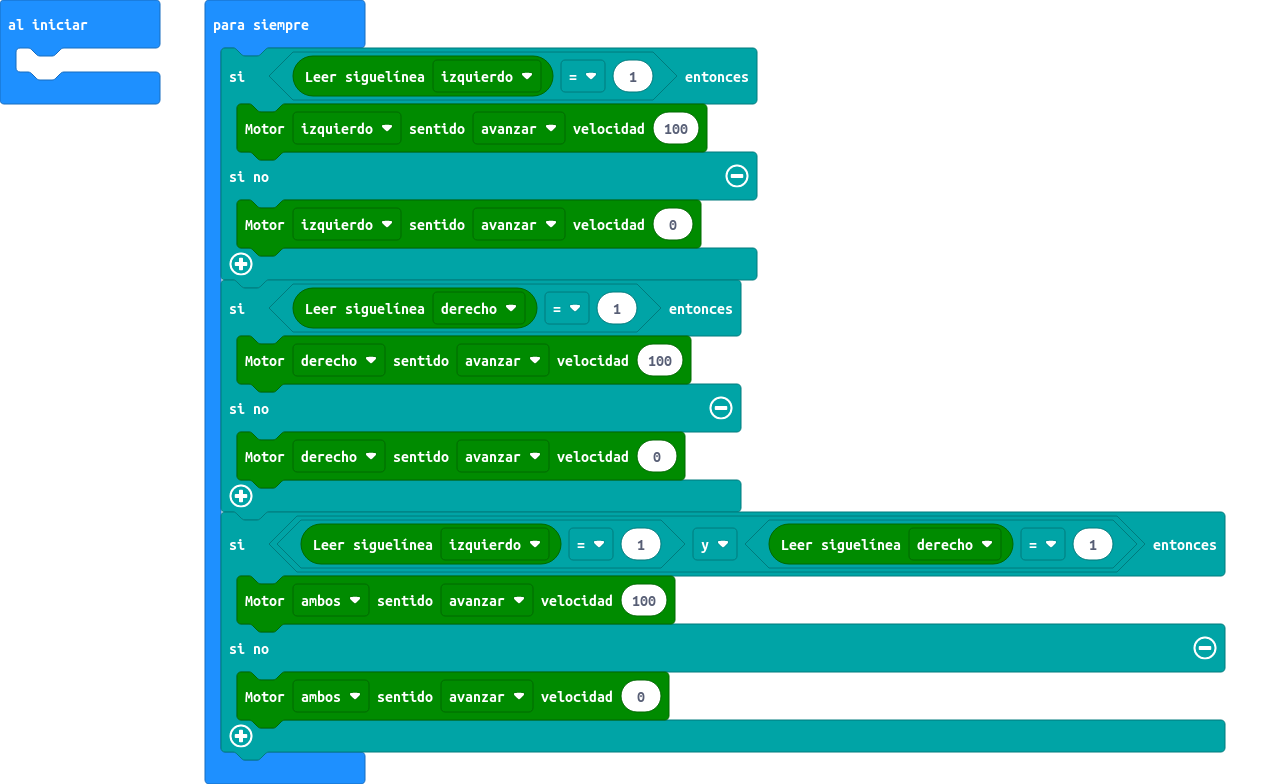
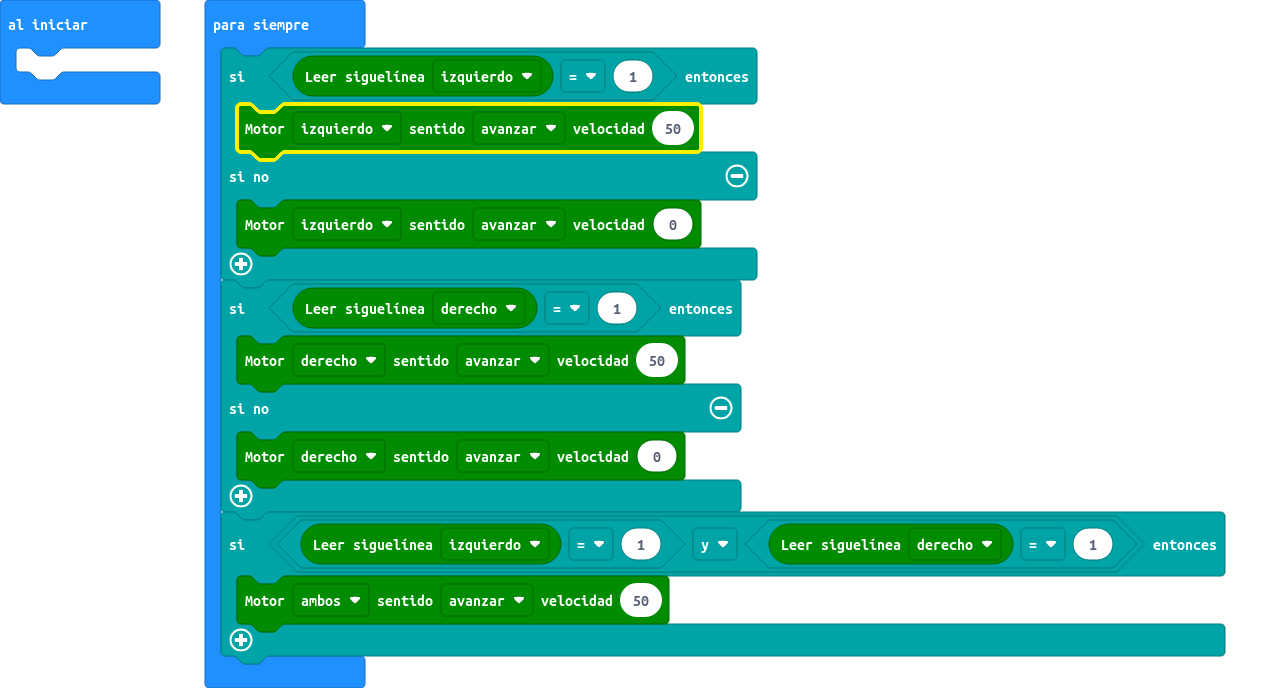
Actualizar main.blocks, main.ts

diff --git a/main.ts b/main.ts
@@ -1,17 +1,15 @@
 basic.forever(function () {
     if (maqueen.readPatrol(maqueen.Patrol.PatrolLeft) == 1) {
-        maqueen.motorRun(maqueen.Motors.M1, maqueen.Dir.CW, 100)
+        maqueen.motorRun(maqueen.Motors.M1, maqueen.Dir.CW, 50)
     } else {
         maqueen.motorRun(maqueen.Motors.M1, maqueen.Dir.CW, 0)
     }
     if (maqueen.readPatrol(maqueen.Patrol.PatrolRight) == 1) {
-        maqueen.motorRun(maqueen.Motors.M2, maqueen.Dir.CW, 100)
+        maqueen.motorRun(maqueen.Motors.M2, maqueen.Dir.CW, 50)
     } else {
         maqueen.motorRun(maqueen.Motors.M2, maqueen.Dir.CW, 0)
     }
     if (maqueen.readPatrol(maqueen.Patrol.PatrolLeft) == 1 && maqueen.readPatrol(maqueen.Patrol.PatrolRight) == 1) {
-        maqueen.motorRun(maqueen.Motors.All, maqueen.Dir.CW, 100)
-    } else {
-        maqueen.motorRun(maqueen.Motors.All, maqueen.Dir.CW, 0)
+        maqueen.motorRun(maqueen.Motors.All, maqueen.Dir.CW, 50)
     }
 })
